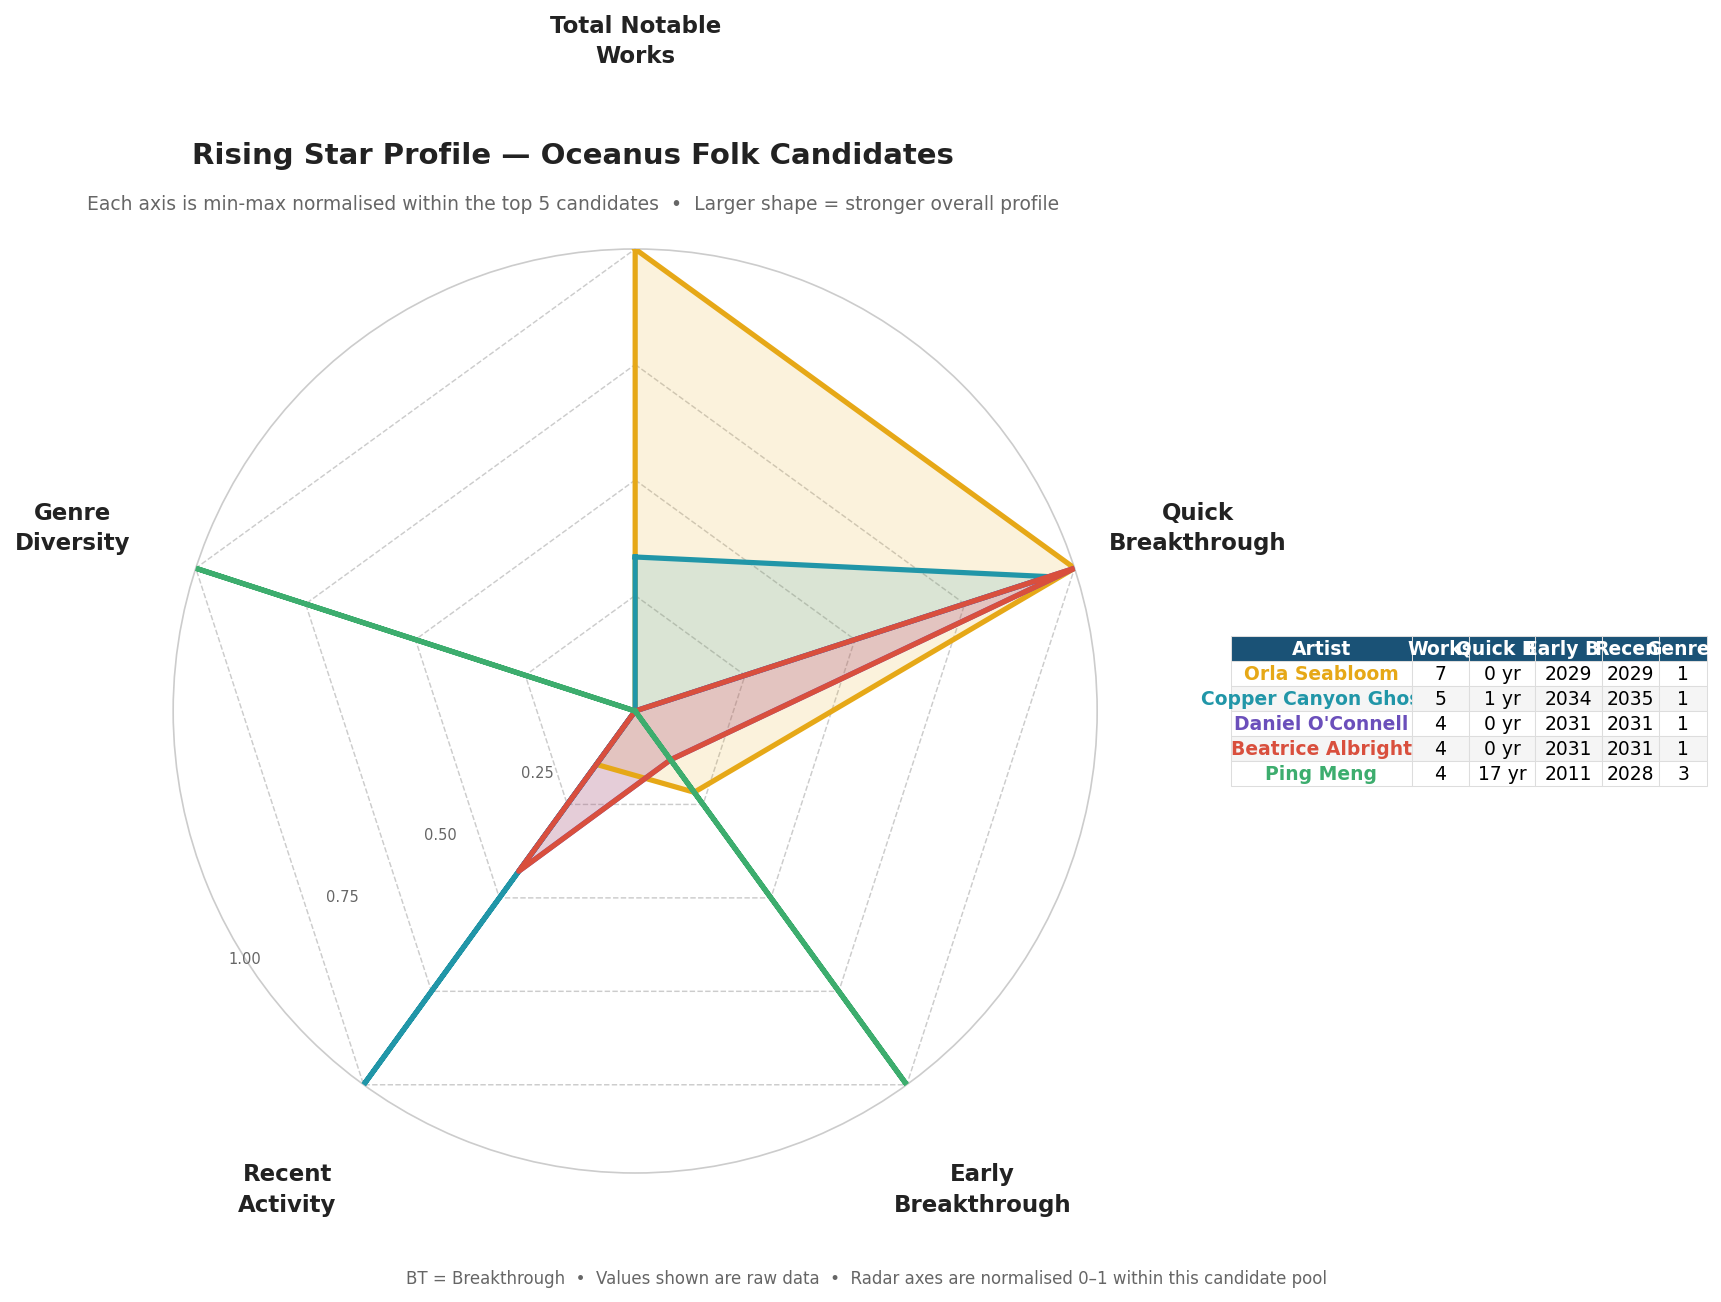
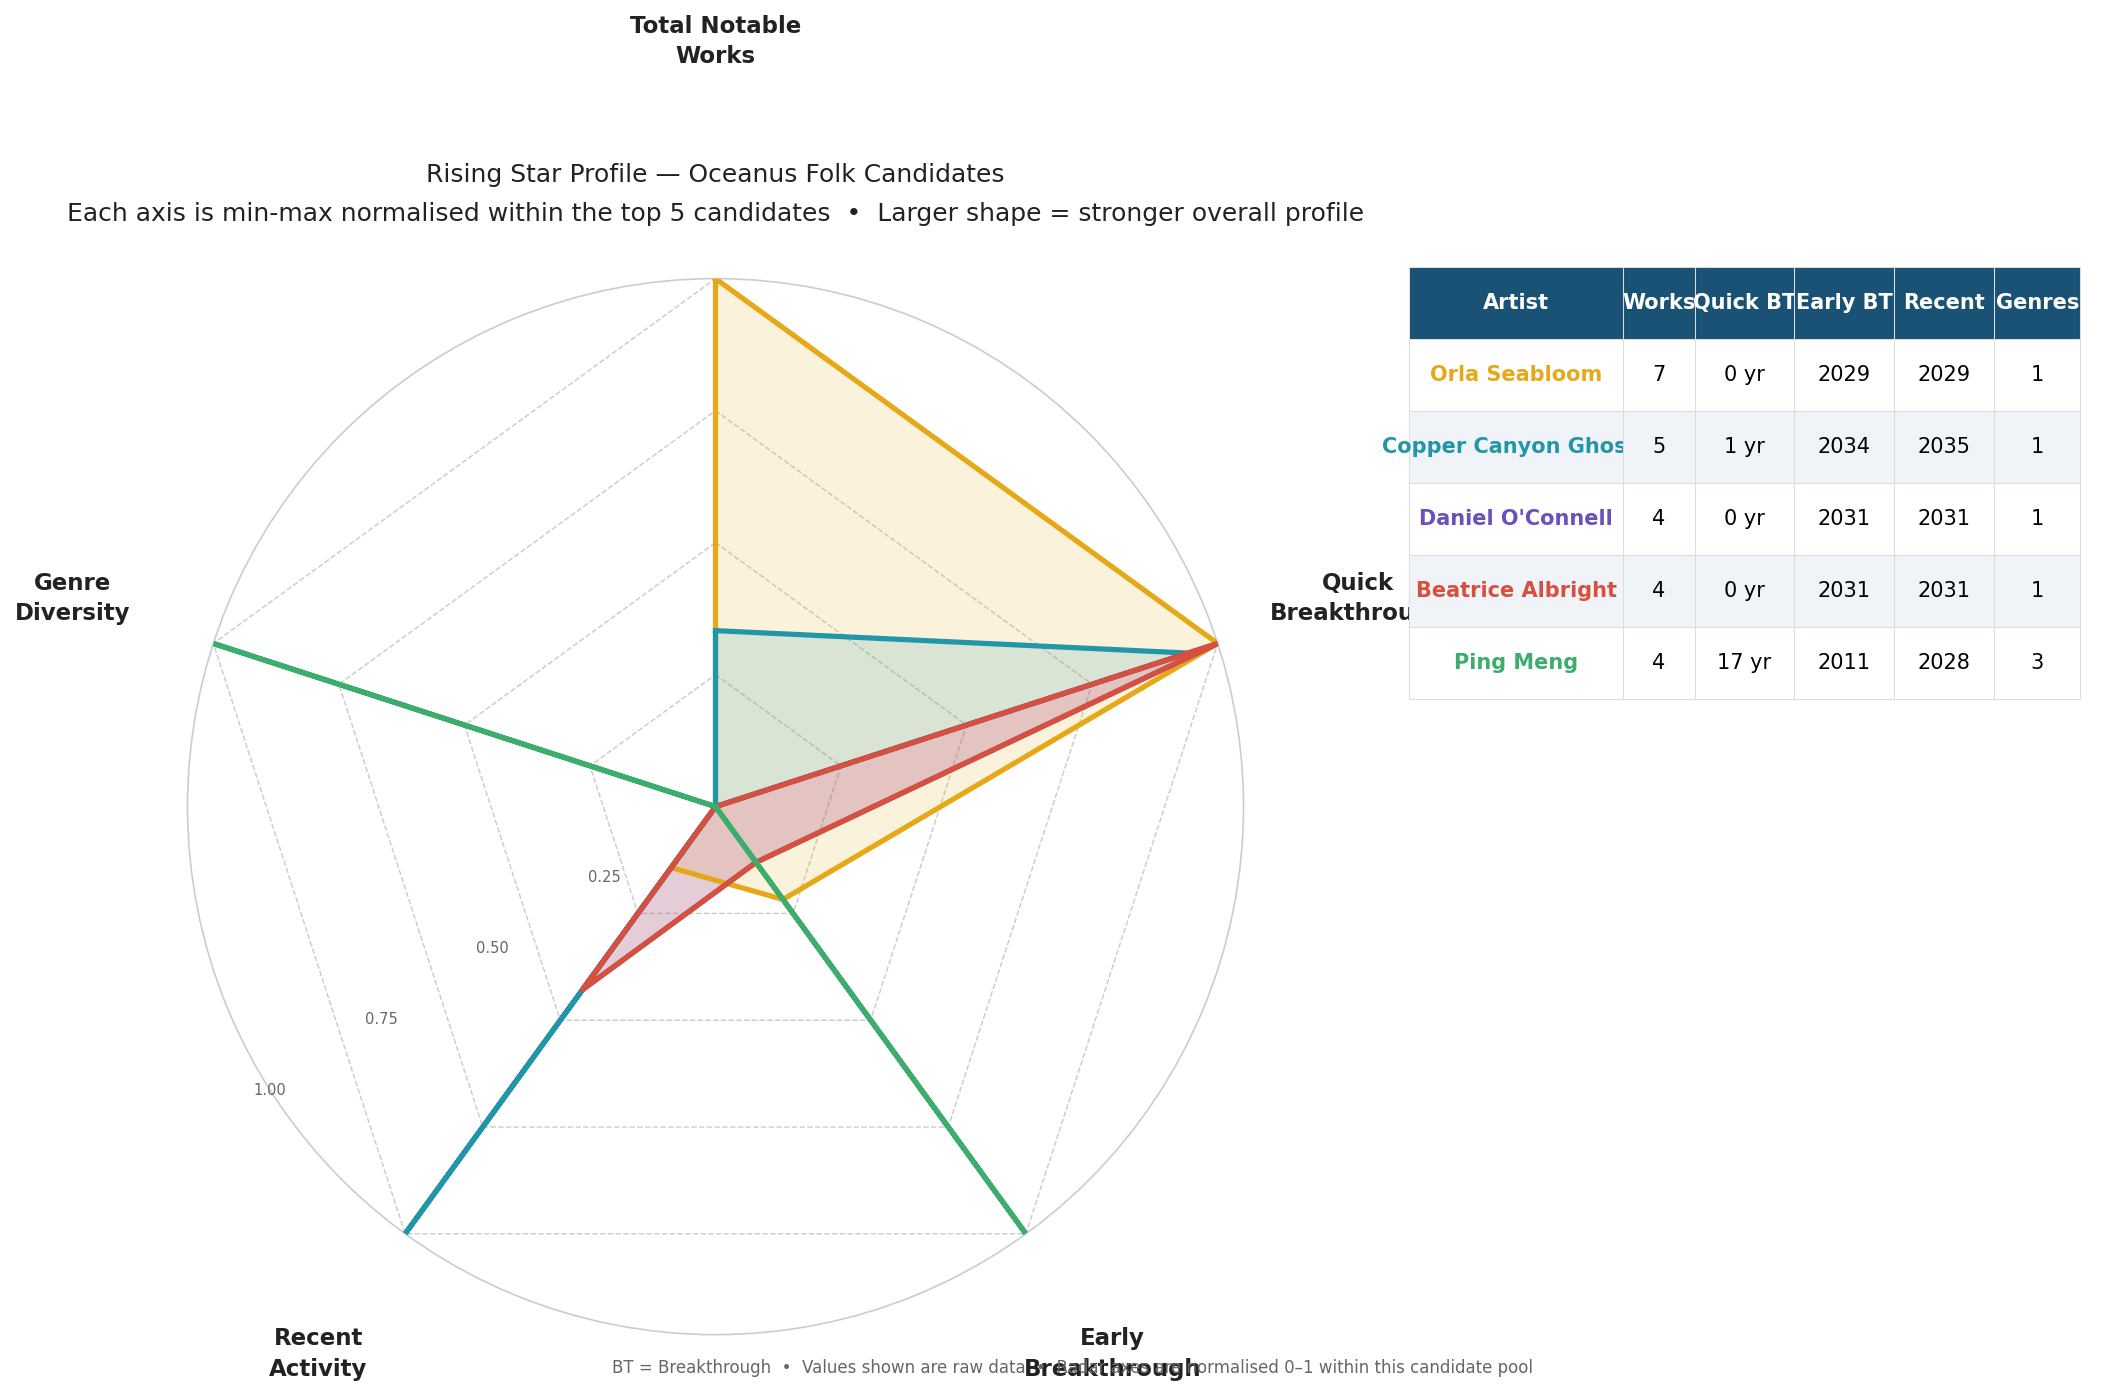
Fix radar table: top-right position, full column names, taller rows

diff --git a/Data/task3_radar.py b/Data/task3_radar.py
@@ -10,7 +10,6 @@ import pandas as pd
 import matplotlib
 matplotlib.use("Agg")
 import matplotlib.pyplot as plt
-from matplotlib.gridspec import GridSpec
 from typing import cast
 from matplotlib.projections.polar import PolarAxes
 
@@ -91,12 +90,13 @@ SPOKE_COL = "#dddddd"
 TEXT_COL  = "#222222"
 GREY      = "#666666"
 
-# ── Figure: two-panel layout ───────────────────────────────────────────────────
+# ── Figure: explicit axis positions ───────────────────────────────────────────
 fig = plt.figure(figsize=(14, 8), dpi=150, facecolor="white")
-gs  = GridSpec(1, 2, figure=fig, width_ratios=[7, 3], wspace=0.05)
 
-ax_radar = cast(PolarAxes, fig.add_subplot(gs[0], polar=True))
-ax_table = fig.add_subplot(gs[1])
+# Radar: [left, bottom, width, height] in figure fraction
+ax_radar = cast(PolarAxes, fig.add_axes([0.02, 0.05, 0.62, 0.88], polar=True))
+# Table: top-right corner
+ax_table = fig.add_axes([0.65, 0.45, 0.34, 0.50])
 
 # ── Radar panel ────────────────────────────────────────────────────────────────
 ax_radar.set_facecolor("white")
@@ -141,31 +141,28 @@ for i, (angle, label, pad) in enumerate(zip(angles[:-1], LABELS, PADS)):
                   color=TEXT_COL, fontsize=11, fontweight="bold",
                   linespacing=1.4)
 
-# Title & subtitle (placed via fig.text so they sit above the polar axes)
-fig.text(0.36, 0.97,
-         "Rising Star Profile — Oceanus Folk Candidates",
-         ha="center", va="top",
-         color=TEXT_COL, fontsize=14, fontweight="bold")
-fig.text(0.36, 0.925,
-         "Each axis is min-max normalised within the top 5 candidates  "
-         "•  Larger shape = stronger overall profile",
-         ha="center", va="top",
-         color=GREY, fontsize=9)
+# Title & subtitle sit above the radar axes
+ax_radar.set_title(
+    "Rising Star Profile — Oceanus Folk Candidates\n"
+    "Each axis is min-max normalised within the top 5 candidates  "
+    "•  Larger shape = stronger overall profile",
+    pad=28, fontsize=12, color=TEXT_COL,
+    linespacing=1.8,
+)
 
-# ── Data table panel ───────────────────────────────────────────────────────────
+# ── Data table panel (top-right) ───────────────────────────────────────────────
 ax_table.axis("off")
 
 col_labels = ["Artist", "Works", "Quick BT", "Early BT", "Recent", "Genres"]
-table_data = []
+COL_WIDTHS = [0.30, 0.10, 0.14, 0.14, 0.14, 0.12]
+ROW_HEIGHT = 0.12
+table_data   = []
 cell_colours = []
 
 for i, (_, row) in enumerate(of.iterrows()):
-    name   = row["performer_name"]
-    colour = ARTIST_COLOURS.get(name, FALLBACK_COLOURS[i])
-    bg     = "white" if i % 2 == 0 else "#f5f5f5"
-
+    bg = "white" if i % 2 == 0 else "#f0f4f8"
     table_data.append([
-        name,
+        row["performer_name"],
         int(row["total_notable_works"]),
         f"{int(row['years_active_span'])} yr",
         int(row["first_notoriety_date"]),
@@ -178,29 +175,27 @@ tbl = ax_table.table(
     cellText=table_data,
     colLabels=col_labels,
     cellLoc="center",
-    loc="center",
+    loc="upper center",
     cellColours=cell_colours,
 )
 tbl.auto_set_font_size(False)
-tbl.set_fontsize(9)
+tbl.set_fontsize(10)
 
-# Column widths: artist name wider
-col_widths = [0.38, 0.12, 0.14, 0.14, 0.12, 0.10]
 for (row_idx, col_idx), cell in tbl.get_celld().items():
     cell.set_edgecolor("#dddddd")
     cell.set_linewidth(0.5)
+    cell.set_height(ROW_HEIGHT)
+    if col_idx < len(COL_WIDTHS):
+        cell.set_width(COL_WIDTHS[col_idx])
     if row_idx == 0:
-        cell.set_text_props(fontweight="bold", color="white")
+        cell.set_text_props(fontweight="bold", color="white", fontsize=10)
         cell.set_facecolor("#1a5276")
-    if col_idx < len(col_widths):
-        cell.set_width(col_widths[col_idx])
 
-# Colour dot in Artist column per artist row
+# Artist name in each row coloured to match radar
 for i, (_, row) in enumerate(of.iterrows()):
     name   = row["performer_name"]
     colour = ARTIST_COLOURS.get(name, FALLBACK_COLOURS[i])
-    cell   = tbl[i + 1, 0]
-    cell.set_text_props(color=colour, fontweight="bold")
+    tbl[i + 1, 0].set_text_props(color=colour, fontweight="bold")
 
 # ── Footnote ──────────────────────────────────────────────────────────────────
 fig.text(
